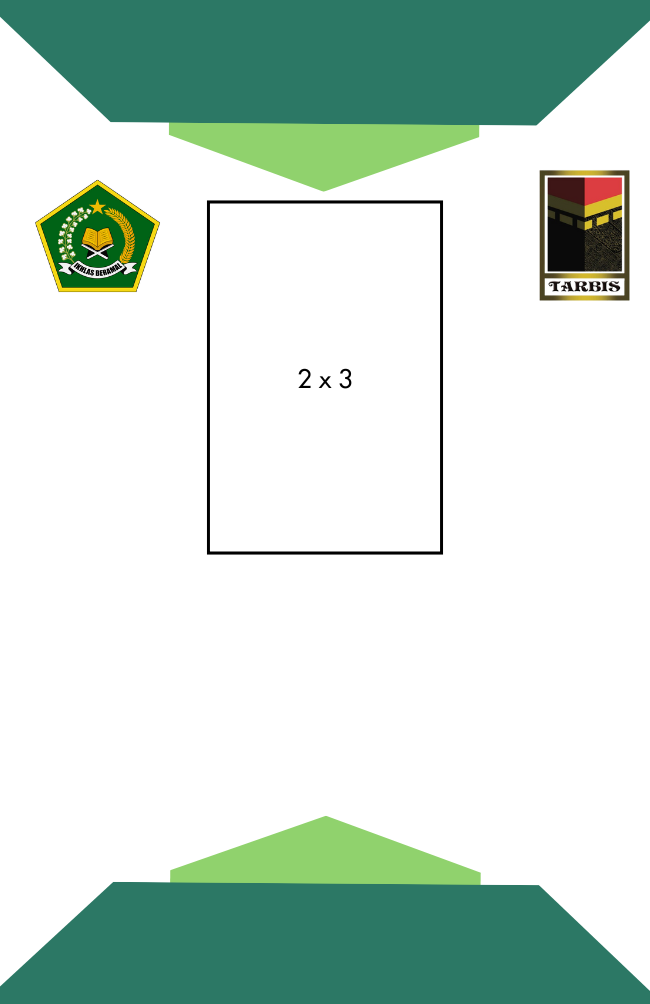
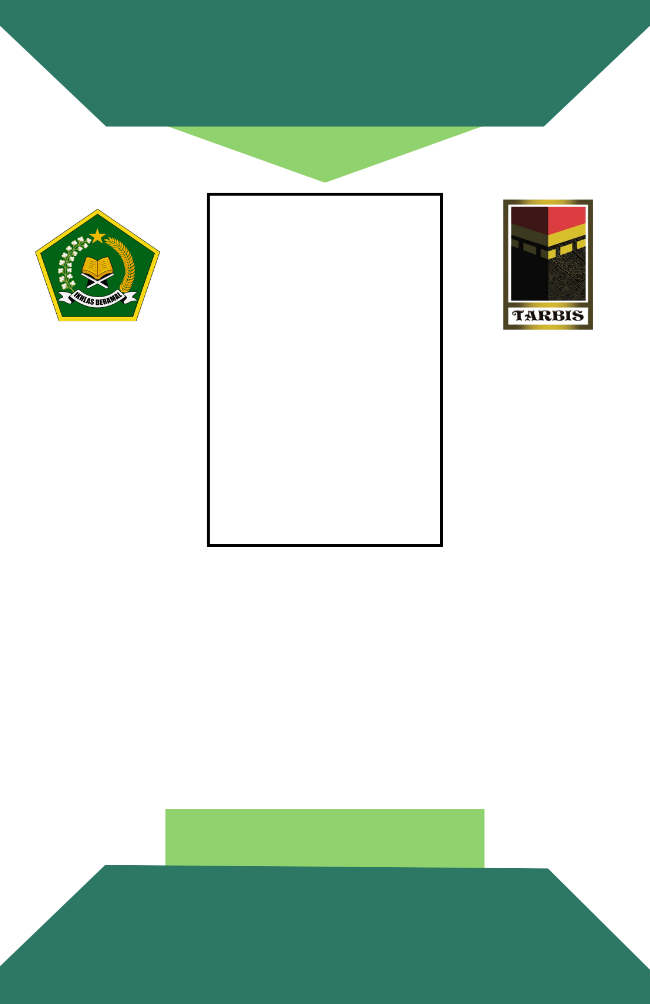
Add new background nametag

diff --git a/components/user/jamaah/ComponentsJamaah.tsx b/components/user/jamaah/ComponentsJamaah.tsx
@@ -490,16 +490,20 @@ const ComponentsJamaah = () => {
 
     // Nama Jamaah
     doc.setTextColor("#000000"); // Mengatur warna teks menjadi hitam
-    doc.setFontSize(6); // Mengatur ukuran font menjadi 12
-    doc.text(pilgrim.name, centerX, y + 5, { align: "center" });
+    doc.setFontSize(7); // Mengatur ukuran font menjadi 12
+    doc.text(pilgrim.name, centerX, y + 4.95, { align: "center" });
 
     // Nomor Porsi Jamaah
-    doc.text(pilgrim.portion_number, centerX, y + 5.28, { align: "center" });
+    doc.text(pilgrim.passport_number, centerX, y + 5.28, { align: "center" });
+    // Rombongan
+    doc.text(pilgrim.group,  centerX, y + 7.2, {
+      align: "center",
+    });
 
     // QR Code
     doc.setTextColor("#ffffff"); // Mengatur warna teks menjadi putih
     doc.setFontSize(3.6); // Mengatur ukuran font menjadi 12
-    doc.addImage(qrCodeDataURL, "JPEG", centerX - 0.7, y + 5.4, 1.4, 1.4);
+    doc.addImage(qrCodeDataURL, "JPEG", centerX - 0.7, y + 5.4, 1.35, 1.35);
 
     // Alamat
     doc.text(
@@ -553,9 +557,12 @@ const ComponentsJamaah = () => {
     doc.text("KBIHU TARBIS", centerX, 0.6, { align: "center" });
 
     doc.setTextColor("#000000"); // Mengatur warna teks menjadi hitam
-    doc.setFontSize(6); // Mengatur ukuran font menjadi 12
-    doc.text(selectedPilgrim.name, centerX, 5, { align: "center" });
-    doc.text(selectedPilgrim.portion_number, centerX, 5.28, {
+    doc.setFontSize(7); // Mengatur ukuran font menjadi 12
+    doc.text(selectedPilgrim.name, centerX, 4.95, { align: "center" });
+    doc.text(selectedPilgrim.passport_number,  centerX, 5.28, {
+      align: "center",
+    });
+    doc.text(selectedPilgrim.group,  centerX, 7.2, {
       align: "center",
     });
 
@@ -574,7 +581,7 @@ const ComponentsJamaah = () => {
 
     doc.setTextColor("#ffffff"); // Mengatur warna teks menjadi putih
     doc.setFontSize(3.6); // Mengatur ukuran font menjadi 12
-    doc.addImage(qrCodeDataURL, "JPEG", centerX - 0.7, 5.4, 1.4, 1.4);
+    doc.addImage(qrCodeDataURL, "JPEG", centerX - 0.7, 5.4, 1.35, 1.35);
     doc.text(
       "Jl. Raya Jagakarsa Jl. H. Sa Amah No.45 7, RT.7/RW.4, Jagakarsa, \nKec. Jagakarsa, Kota Jakarta Selatan, DKI Jakarta 12620",
       centerX,
